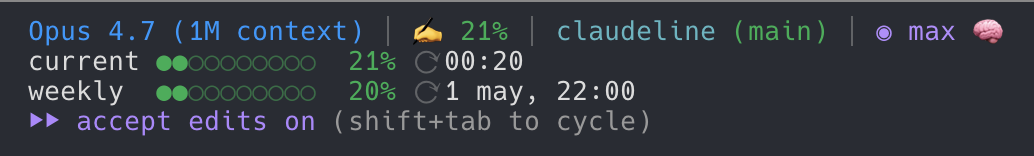
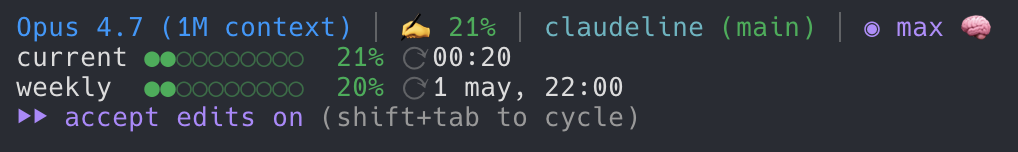
docs: refresh screenshot and add light/dark variants
Replaces the screenshot with a fresher capture (1M context model, clean
working tree, accept-edits hint visible) and ships two themed copies
framed for GitHub light and dark backgrounds. The README now uses a
<picture> element so each reader sees the variant that matches their
chosen color scheme; both github.com and npmjs.com respect this.

diff --git a/README.md b/README.md
@@ -10,7 +10,11 @@ A cross-platform statusline for [Claude Code](https://claude.com/claude-code).
 TypeScript, single binary, zero config.
 
 <p align="center">
-  <img src="https://raw.githubusercontent.com/arcasilesgroup/claudeline/main/docs/screenshot.png" alt="claudeline running in Claude Code: model name, context %, working directory, effort and thinking glyphs, plus 5-hour and weekly rate-limit bars" width="900" />
+  <picture>
+    <source media="(prefers-color-scheme: dark)" srcset="https://raw.githubusercontent.com/arcasilesgroup/claudeline/main/docs/screenshot-dark.png">
+    <source media="(prefers-color-scheme: light)" srcset="https://raw.githubusercontent.com/arcasilesgroup/claudeline/main/docs/screenshot-light.png">
+    <img src="https://raw.githubusercontent.com/arcasilesgroup/claudeline/main/docs/screenshot.png" alt="claudeline running inside Claude Code: model name with 1M context, ✍ context %, working directory and git branch, effort glyph, thinking indicator, and 5-hour and weekly rate-limit bars" width="900" />
+  </picture>
 </p>
 
 ## Features
